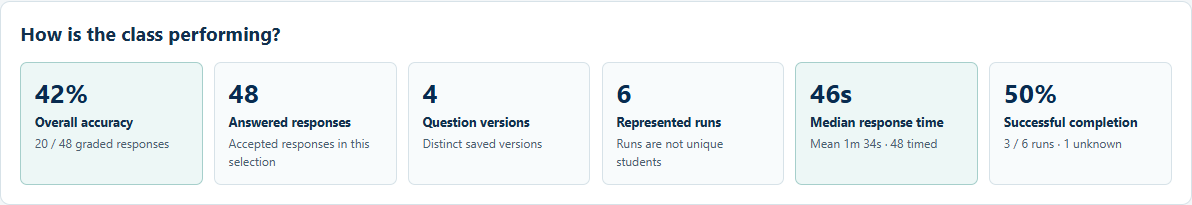
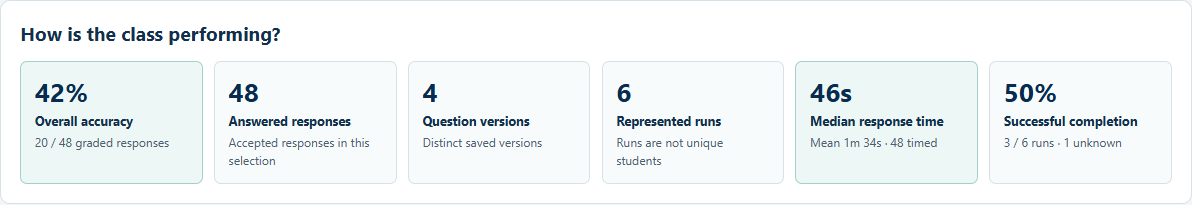
Polish instructor summary and review priorities

diff --git a/tools/answer-analysis/dashboard-view.js b/tools/answer-analysis/dashboard-view.js
@@ -12,6 +12,24 @@ function metric(label,value,detail='',primary=false){const node=el('div','','met
 function panel(id,title){const node=byId(id);node.replaceChildren(el('h2',title));return node;}
 function fold(label,...children){const node=el('details','');node.append(el('summary',label),...children);return node;}
 function smallTable(headers,rows){const node=table(headers,rows);node.classList.add('compact-table');return node;}
+function difficultyLabel(value){
+  if(!/boss$/i.test(value))return value;
+  const spaced=value.replace(/([a-z])([A-Z])/g,'$1 $2').replace(/[_-]+/g,' ').replace(/\s*boss$/i,' boss').toLowerCase();
+  return spaced.charAt(0).toUpperCase()+spaced.slice(1);
+}
+function renderSummaryHighlights(text){
+  const node=byId('summary-highlights'),o=summary.overview,parts=text.split('\n\n');node.replaceChildren();
+  const conflict=Boolean(summary.stats.keyConflicts||summary.stats.objectiveConflicts);
+  const priority=parts.find(p=>p.startsWith('Start the review with '));
+  const next=parts.find(p=>p.startsWith('Suggested next step: '));
+  const allCorrect=o.knownCorrectness>0&&o.correct===o.knownCorrectness;
+  const items=[
+    ['Class performance',o.knownCorrectness?`${percent(o.correct,o.knownCorrectness)} accuracy`:'No graded responses',`${o.correct} / ${o.knownCorrectness} graded responses · ${plural(o.runs,'run')}`],
+    [byId('grouping').value==='objectives'?'Priority objective':'Priority topic',conflict?'Check conflicting records':priority?priority.replace('Start the review with ',''):allCorrect?'No review priority identified':'More evidence needed',conflict?'Answer-key or objective conflicts prevent a comparison.':priority?'Based on the current filters and review minimum.':allCorrect?'All graded responses in this selection were correct.':'No topic or objective with incorrect answers meets the selected review minimum.'],
+    ['Teaching action',conflict?'Resolve the conflicting records before drawing conclusions.':next?next.replace('Suggested next step: ',''):allCorrect?'Check understanding with a fresh question or application.':'Collect more responses before choosing a teaching intervention.','']
+  ];
+  for(const [label,value,detail] of items){const card=el('div','','summary-highlight');card.append(el('h3',label),el('p',value,'highlight-value'));if(detail)card.append(note(detail));node.append(card);}
+}
 function renderDashboard(){
   const o=summary.overview,p=summary.progression,coverage=summary.coverage;
   const node=panel('overview','How is the class performing?'),metrics=el('div','','metrics');
@@ -23,13 +41,13 @@ function renderDashboard(){
   if(!summary.stats.included)node.append(unavailable('No usable responses match this selection. Reset filters or add exports with saved question details.'));
   const difficulty=panel('difficulty','Performance by difficulty');
   const reliable=summary.difficulties.filter(g=>g.label!=='Unknown').reduce((n,g)=>n+g.count,0);
-  difficulty.append(note(`${reliable} of ${summary.stats.included} responses have recorded difficulty. Missing or conflicting question-version labels are Unknown.`),
-    table(['Difficulty','Responses','Unique questions','Runs','Accuracy','Median response time'],summary.difficulties.map(g=>[g.label,g.count||'No observed responses',g.count?g.questionCount:'—',g.count?g.runCount:'—',accuracyCell(g),displayTime(g.medianResponseTimeMs)])));
+  difficulty.append(note(`${reliable} of ${summary.stats.included} responses have recorded difficulty.`),
+    table(['Difficulty','Responses','Unique questions','Runs','Accuracy','Median response time'],summary.difficulties.map(g=>[difficultyLabel(g.label),g.count||'No observed responses',g.count?g.questionCount:'—',g.count?g.runCount:'—',accuracyCell(g),displayTime(g.medianResponseTimeMs)])),
+    fold('How to read difficulty',note('Missing or conflicting question-version labels are Unknown. Boss labels are spaced for readability; their recorded categories and counts are unchanged.')));
   if(summary.quality.difficultyConflicts)difficulty.append(fold('Conflicting difficulty labels',note('Some saved question versions have different difficulty labels across imported responses. Those versions are classified as Unknown above. The exported labels are shown below.'),table(['Recorded label','Responses','Accuracy','Median time'],summary.reportedDifficulties.map(g=>[g.label,g.count,accuracyCell(g),displayTime(g.medianResponseTimeMs)]))));
   const encounter=panel('encounters','First and repeat encounters');
   encounter.append(note('Exact question version within a run. Retained history only; unknown ordering stays unavailable.'),smallTable(['Question encounter','Responses','Accuracy'],summary.encounters.question.map(g=>[g.label,g.count,accuracyCell(g)])),
-    unavailable('Skill first/repeat performance: Not available. These exports do not provide a consistent skill identifier and reliable skill-encounter history.'),
-    fold('Original exposure-counter results',note('Used by the Attempts filter. This question-ID counter also includes earlier rapid guesses and may span revisions.'),smallTable(['Recorded exposure','Responses','Accuracy'],summary.encounters.recorded.map(g=>[g.label,g.count,accuracyCell(g)]))));
+    fold('Encounter definitions and data limits',unavailable('Skill first/repeat performance: Not available. These exports do not provide a consistent skill identifier and reliable skill-encounter history.'),note('The original exposure counter is used by the Attempts filter. This question-ID counter also includes earlier rapid guesses and may span revisions.'),smallTable(['Recorded exposure','Responses','Accuracy'],summary.encounters.recorded.map(g=>[g.label,g.count,accuracyCell(g)]))));
   const remediation=panel('remediation','Instructional support');
   remediation.append(note('Immediate support responses are separate from subsequent retests.'),smallTable(['Recorded role','Responses','Accuracy'],summary.remediation.roles.map(g=>[g.label[0].toUpperCase()+g.label.slice(1),g.count||'Not available',accuracyCell(g)])));
   const linked=summary.remediation.linkedRetests;
@@ -37,7 +55,7 @@ function renderDashboard(){
     fold('Sequence support and limits',note(`${summary.remediation.linkedGroups||'No'} linked remediation groups observed. A group is not proof of a complete sequence.`),unavailable('Sequences initiated, completed, and abandoned: Not available. The current exports do not consistently mark those lifecycle events.'),note('Correct repair answers and retests do not establish mastery or a causal learning gain.')));
   const progression=panel('progression','Game completion and progression'),runMetrics=el('div','','metrics run-metrics');
   runMetrics.append(metric('Successful completions',p.successful,`${p.represented} represented runs`),metric('Ended early',p.early),metric('Unsuccessful endings',p.unsuccessful),metric('Unknown status',p.unknown));
-  progression.append(runMetrics,note('Whole-run context for the runs represented above. Response filters do not shorten these runs. A successful ending means normal mode completion, not mastery.'));
+  progression.append(runMetrics);
   progression.append(table(['Whole-run measure','Value','Coverage / denominator'],[
     ['Successful completion rate',p.successfulRate===null?'Not available':percent(p.successful,p.represented),`${p.successful} successful / ${p.represented} represented; ${p.unknown} unknown included in denominator`],
     ['Median successful completion time',runTime(p.medianSuccessfulTimeMs),`${p.successfulTimedRuns} of ${p.successful} successful runs have end times`],
@@ -45,19 +63,19 @@ function renderDashboard(){
     ['Median overall run duration',runTime(o.medianRunTimeMs),`${o.timedRuns} of ${o.runs} runs; partial clocks may understate duration`],
     ['Mean ended-run duration',runTime(o.averageCompletionTimeMs),`${o.completionRuns} recorded endings, including early / unsuccessful endings`],
     ['Recorded run time',runTime(o.recordedTimeMs),'Total of one maximum clock per represented run'],
-    ['Longest correct-answer streak',o.bestStreak??'Not available',`${o.streakRuns} of ${o.runs} runs have recorded streaks`],
-    ['Checkpoint / boss retry rate','Not available','Explicit, consistently identified retry attempts are not available']
+    ['Longest correct-answer streak',o.bestStreak??'Not available',`${o.streakRuns} of ${o.runs} runs have recorded streaks`]
   ]));
+  progression.append(fold('Completion definitions and data limits',note('Whole-run context for the runs represented above. Response filters do not shorten these runs. A successful ending means normal mode completion, not mastery.'),unavailable('Checkpoint / boss retry rate: Not available. Explicit, consistently identified retry attempts are not available.')));
   progression.append(fold('Review individual runs',table(['Run','Game','Status','Recorded duration','Observed answers','Inspect'],summary.runs.map(r=>{
     const button=el('button','Inspect run');button.type='button';button.addEventListener('click',()=>{byId('run').value=r.key;refresh();byId('overview').scrollIntoView();});
     return [r.runID,r.gameID,outcomeLabel[r.status]+(r.conflict?' (conflicting endings)':''),runTime(r.time),r.answerCount,button];
   }))));
   const timing=panel('timing','Response-time distribution'),bins=el('ul','','distribution');
   for(const bin of summary.distribution){const row=el('li','');row.append(el('span',bin.label),bar(bin.count,o.timedResponses),el('span',`${bin.count} · ${o.timedResponses?percent(bin.count,o.timedResponses):'—'}`,'bin-value'));bins.append(row);}
-  timing.append(note(`Median ${displayTime(o.medianResponseTimeMs)} · Mean ${displayTime(o.averageResponseTimeMs)} · ${o.timedResponses}/${summary.stats.included} timed responses`),bins,note('All positive recorded times are retained. Times can include idle periods, accommodations, and interruptions.'));
+  timing.append(note(`Median ${displayTime(o.medianResponseTimeMs)} · Mean ${displayTime(o.averageResponseTimeMs)} · ${o.timedResponses}/${summary.stats.included} timed responses`),bins,fold('About recorded times',note('All positive recorded times are retained. Times can include idle periods, accommodations, and interruptions.')));
   const cov=panel('coverage','Question-bank coverage'),depth=el('div','','mini-stats');
   for(const [value,label] of [[coverage.encountered,'versions encountered'],[coverage.atLeastFive,'with ≥5 graded responses'],[coverage.atLeastTen,'with ≥10 graded responses']]){const item=el('div','');item.append(el('strong',value),el('span',label));depth.append(item);}
-  cov.append(depth,note('Breadth shows how much content was encountered. Depth shows how many versions have enough responses to review.'),unavailable('Percentage of the bank: Not available. No authoritative complete inventory was supplied.'),el('a','See coverage by topic or learning objective'));
+  cov.append(depth,fold('Coverage definitions and data limits',note('Breadth shows how much content was encountered. Depth shows how many versions have enough responses to review.'),unavailable('Percentage of the bank: Not available. No authoritative complete inventory was supplied.')),el('a','See coverage by topic or learning objective'));
   cov.lastChild.href='#topics';renderTopics();renderReview();
 }
 function topicLabel(g){return byId('grouping').value==='objectives'?MQAnswerAnalysis.objectiveLabel(g):g.topic.replaceAll('_',' ').replaceAll('-',' ');}
@@ -80,13 +98,20 @@ function renderTopics(){
 }
 function renderReview(){
   const groups=MQAnswerAnalysis.reviewQuestions(summary,Number(byId('minimum').value)),node=byId('review-results');node.replaceChildren();
-  byId('review-note').textContent=`Up to five questions with at least ${plural(Number(byId('minimum').value),'graded response')}, lowest accuracy first. Select a question to open its choices. Fewer than five responses or two runs is limited evidence.`;
+  byId('review-note').textContent=`Lowest accuracy first · At least ${plural(Number(byId('minimum').value),'graded response')} per question · Up to five priorities`;
   if(!groups.length){node.append(note('No questions meet the current review threshold. All imported question results remain available below.'));return;}
-  node.append(table(['Question','Responses','Runs','Accuracy','Most common choice marked incorrect'],groups.map((g,i)=>{
+  const list=el('ol','','review-list');
+  for(const [i,g] of groups.entries()){
     const wrong=g.options.filter(o=>o.knownCorrectness>o.correct),max=Math.max(...wrong.map(o=>o.knownCorrectness-o.correct));
-    const cell=el('div','');cell.append(reviewLink(g,i),note(MQAnswerAnalysis.sufficient(g)?'Broader sample':'Limited evidence'));
-    return [cell,g.count,g.runCount,accuracyCell(g),wrong.filter(o=>o.knownCorrectness-o.correct===max).map(o=>`${o.text} (${max})`).join(' / ')];
-  })),note('These are observed answer patterns, not proven misconceptions. Review the wording and reasoning before deciding on a classroom intervention.'));
+    const card=el('li','','review-card'),body=el('div','','review-body'),heading=el('h3',''),stats=el('div','','review-stats');
+    heading.append(reviewLink(g,i));body.append(heading,note(MQAnswerAnalysis.sufficient(g)?'Broader sample':'Limited evidence — fewer than five graded responses or two runs'));
+    const common=wrong.filter(o=>o.knownCorrectness-o.correct===max),choice=el('p','','review-choice');
+    choice.append(el('strong',common.length===1?'Most common incorrect choice: ':'Tied incorrect choices: '),document.createTextNode(common.map(o=>`${o.text} (${max})`).join(' / ')));body.append(choice);
+    stats.append(metric('Accuracy',percent(g.correct,g.knownCorrectness),`${g.correct} / ${g.knownCorrectness} correct`),metric('Responses',g.count,plural(g.runCount,'run')));
+    const link=el('a','View answer choices →','review-action');link.href='#'+questionAnchor(g);link.setAttribute('aria-label',`View answer choices for Review ${i+1}`);link.addEventListener('click',event=>{event.preventDefault();openQuestion(g);});
+    body.append(link);card.append(body,stats);list.append(card);
+  }
+  node.append(list,fold('How review priorities are selected',note('Questions must meet the selected review minimum and have an incorrect response. Fewer than five graded responses or two runs is limited evidence. These are observed answer patterns, not proven misconceptions. Review the wording and reasoning before deciding on a classroom intervention.')));
 }
 function openQuestion(g){
   questionScope=null;byId('question-search').value='';questionPage=Math.floor(orderedQuestions().indexOf(g)/questionPageSize);renderQuestions();
@@ -112,7 +137,7 @@ function renderQuestions(){
     heading.append(el('h3',g.prompt),note(`${plural(g.count,'answer')} · ${percent(g.correct,g.knownCorrectness)} correct (${g.correct}/${g.knownCorrectness}) · ${plural(g.runCount,'run')} · Median ${displayTime(g.medianResponseTimeMs)}`));card.append(heading);
     const legacy=el('span','');legacy.id='question-'+summary.groups.indexOf(g);card.append(legacy);
     const metadata=el('dl','','question-meta');
-    for(const [label,value] of [['Question ID',g.questionID],['Game',g.games.join(', ')],['Topic',g.topics.join(' / ')||'Not supplied'],['Learning objective',g.objectives.join(' / ')||'Not supplied'],['Difficulty',g.difficulty],['Question type',g.types.join(' / ')||'Not supplied'],['Gameplay role',[...g.roles,...g.bossStages].join(' / ')||'Not supplied'],['Saved version',g.revision]]){const pair=el('div','');pair.append(el('dt',label),el('dd',String(value)));metadata.append(pair);}card.append(metadata);
+    for(const [label,value] of [['Question ID',g.questionID],['Game',g.games.join(', ')],['Topic',g.topics.join(' / ')||'Not supplied'],['Learning objective',g.objectives.join(' / ')||'Not supplied'],['Difficulty',difficultyLabel(g.difficulty)],['Question type',g.types.join(' / ')||'Not supplied'],['Gameplay role',[...g.roles,...g.bossStages].join(' / ')||'Not supplied'],['Saved version',g.revision]]){const pair=el('div','');pair.append(el('dt',label),el('dd',String(value)));metadata.append(pair);}card.append(metadata);
     card.append(note(`Exact-version encounters: ${g.encounters.map(e=>`${e.count} ${e.label.toLowerCase()}`).join(' · ')}. ${g.assisted} responses with choices removed.`),note(`Time per answer: median ${displayTime(g.medianResponseTimeMs)} · mean ${displayTime(g.averageResponseTimeMs)} · ${g.timedResponses}/${g.count} timed.`));
     if(g.reportedDifficulties.length&&g.difficulty==='Unknown')card.append(note('Conflicting recorded difficulty labels: '+g.reportedDifficulties.join(' / ')));
     if(g.optionOrder==='displayed')card.append(note('Original answer order was unavailable. Choices are grouped by the order shown.'));

diff --git a/tools/answer-analysis/report.css b/tools/answer-analysis/report.css
@@ -14,3 +14,8 @@ label{display:flex;flex-direction:column;font-size:.85rem;font-weight:650;gap:.3
 .question{border:1px solid var(--line);border-radius:7px;padding:.85rem 1rem;margin:.7rem 0;background:white}.question.review-question{border-left:3px solid var(--teal)}.question summary h3{display:inline;font-size:.95rem;font-weight:650;white-space:pre-wrap;overflow-wrap:anywhere;margin:0}.question summary p{margin:.3rem 0 0}.question summary .meta{font-weight:400}.review-badge{display:inline-block;margin:0 .5rem .3rem 0;padding:.1rem .45rem;border-radius:4px;background:#dff2ef;color:#075951;font-size:.75rem;font-weight:750}.question-meta{display:grid;grid-template-columns:repeat(3,minmax(0,1fr));gap:.6rem;margin:.8rem 0;font-size:.85rem}.question-meta dt{font-weight:650;color:var(--muted);font-size:.75rem}.question-meta dd{margin:0;overflow-wrap:anywhere}.question table td:first-child{min-width:260px;white-space:pre-wrap}.question table{min-width:650px}.question .actions{margin-bottom:0}#summary-text{width:100%;padding:.8rem;font:inherit;line-height:1.5;resize:vertical}#feedback-preview{white-space:pre-wrap;font-size:.9rem;line-height:1.65}.question-id{font-family:ui-monospace,monospace;font-size:.8rem}
 @media(max-width:1050px){.metrics{grid-template-columns:repeat(3,minmax(0,1fr))}.run-metrics{grid-template-columns:repeat(2,minmax(0,1fr))}.learning-grid{grid-template-columns:1fr}.filters{grid-template-columns:repeat(3,minmax(0,1fr))}}
 @media(max-width:650px){main{padding:1rem .75rem 2rem}h1{font-size:1.9rem}.panel{padding:.9rem}.metrics,.filters{grid-template-columns:repeat(2,minmax(0,1fr))}.metric{padding:.65rem}.metric strong{font-size:1.4rem}#drop-zone{display:block}#drop-zone input{padding-left:0;margin-top:.5rem}.section-heading{align-items:start;flex-direction:column}.section-heading label{max-width:100%;width:100%}.question-meta{grid-template-columns:1fr 1fr}.distribution li{grid-template-columns:125px 1fr 70px;gap:.4rem;font-size:.8rem}.question{padding:.7rem}.actions{gap:.5rem}.actions button{font-size:.85rem}#dashboard-nav{gap:.5rem .9rem}}
+
+.summary-highlights{display:grid;grid-template-columns:1fr 1.35fr 1.35fr;gap:1rem;margin:1rem 0}.summary-highlight{min-width:0;border-left:3px solid #a6cfcb;padding:.15rem 1rem;background:#f8fbfc;border-radius:0 6px 6px 0}.summary-highlight h3{margin:.5rem 0;font-size:.8rem;color:var(--muted)}.highlight-value{font-size:1rem;font-weight:600;line-height:1.5;overflow-wrap:anywhere}.summary-highlight:first-child .highlight-value{font-size:1.55rem;color:var(--navy)}.summary-highlight .meta{font-size:.8rem}#summary-preview{border-top:1px solid var(--line);padding-top:.85rem;margin-top:1rem}
+.review-list{list-style:none;padding:0;margin:1rem 0;display:grid;gap:.8rem}.review-card{display:grid;grid-template-columns:minmax(0,1fr) 220px;gap:1.5rem;padding:1.1rem;border:1px solid var(--line);border-left:3px solid var(--teal);border-radius:7px;background:#fff}.review-body{min-width:0;overflow-wrap:anywhere}.review-body h3{margin:0;font-size:1rem;line-height:1.5}.review-link{text-decoration:none}.review-link:hover{text-decoration:underline}.review-choice{font-size:.85rem;line-height:1.6;background:#f5f8fa;padding:.65rem .8rem;border-radius:5px;white-space:pre-wrap}.review-choice strong{font-weight:600}.review-action{display:inline-block;font-size:.85rem;font-weight:650;padding:.4rem 0}.review-stats{display:grid;grid-template-columns:1fr 1fr;gap:.6rem;align-content:start}.review-stats .metric{padding:.7rem}.review-stats .metric strong{font-size:1.55rem}#difficulty .rate{min-width:145px;max-width:210px;font-variant-numeric:tabular-nums}#difficulty .bar-track{height:7px;margin-top:.5rem}.panel>details:not(.question){margin-top:.85rem}.panel>details:not(.question)>summary{color:var(--muted)}
+@media(max-width:850px){.summary-highlights{grid-template-columns:1fr}.summary-highlight{padding:.25rem .85rem}.summary-highlight h3{margin:.35rem 0}.highlight-value{margin:.4rem 0}.review-card{grid-template-columns:minmax(0,1fr) 185px;gap:1rem}}
+@media(max-width:650px){.review-card{display:flex;flex-direction:column;gap:.7rem;padding:.85rem}.review-stats{order:-1;grid-template-columns:1fr 1fr}.review-stats .metric{padding:.5rem .65rem}.review-stats .metric strong{font-size:1.3rem}.review-stats .metric small{font-size:.75rem}.review-body h3{font-size:.95rem}}

diff --git a/tools/answer-analysis/index.html b/tools/answer-analysis/index.html
@@ -24,8 +24,8 @@
 <div id="empty-state" class="panel"><h2>A clearer view of your class</h2><p>Import game data as CSV, Excel, or Apple Numbers from Managerial Intelligence Directorate, Macro Command System, Micro Domains, Economic Realm, or Composer games.</p><p class="meta">Simulation trial tables and journey JSON files are not supported. Older exports may lack saved question details.</p></div>
 <div id="dashboard" hidden>
 <section id="overview" class="panel" aria-label="Class overview"></section>
-<section id="instructor-summary" class="panel" aria-labelledby="summary-heading"><h2 id="summary-heading">Instructor summary</h2><p class="meta">A starting point for course planning. Review the observations and edit before sharing.</p><div class="actions"><button id="copy-summary" disabled>Copy Class Summary</button><button id="download-feedback" disabled>Download teaching summary</button><button id="download-summary" disabled>Download class summary</button><button id="download" disabled>Download choice counts</button></div>
-<p id="copy-status" role="status" aria-live="polite"></p><details id="summary-preview" open><summary>Read the Class Practice Summary</summary><p id="feedback-preview"></p></details><div id="summary-editor" hidden><label for="summary-text">Class feedback summary — review and edit before sharing</label><textarea id="summary-text" rows="12"></textarea></div></section>
+<section id="instructor-summary" class="panel" aria-labelledby="summary-heading"><h2 id="summary-heading">Instructor summary</h2><p class="meta">Three highlights for planning your next class.</p><div id="summary-highlights" class="summary-highlights"></div><div class="actions"><button id="copy-summary" disabled>Copy Class Summary</button><button id="download-feedback" disabled>Download teaching summary</button><button id="download-summary" disabled>Download class summary</button><button id="download" disabled>Download choice counts</button></div>
+<p id="copy-status" role="status" aria-live="polite"></p><details id="summary-preview"><summary>Read full summary</summary><p id="feedback-preview"></p></details><div id="summary-editor" hidden><label for="summary-text">Class feedback summary — review and edit before sharing</label><textarea id="summary-text" rows="12"></textarea></div></section>
 <section id="review" class="panel" aria-label="Questions to review"><h2 id="questions-to-review">Questions to review</h2><p id="review-note" class="meta"></p><div id="review-results"></div></section>
 <section id="difficulty" class="panel" aria-label="Performance by difficulty"></section>
 <div id="learning" class="learning-grid"><section id="encounters" class="panel" aria-label="First and repeat encounters"></section><section id="remediation" class="panel" aria-label="Instructional support"></section></div>

diff --git a/tools/answer-analysis/report.js b/tools/answer-analysis/report.js
@@ -47,6 +47,7 @@ function refresh(){
   byId('copy-summary').disabled=!s.accepted;byId('download-feedback').disabled=!s.accepted;
   byId('download-summary').disabled=!summary.groups.length;byId('download').disabled=!summary.groups.length;
   byId('feedback-preview').textContent=summaryText();
+  renderSummaryHighlights(byId('feedback-preview').textContent);
   if(!byId('summary-editor').hidden){byId('summary-text').value=summaryText();byId('copy-status').textContent='Summary updated for the current selection. Copy it again to use these results.';}
 }
 function renderFiles(){

diff --git a/ANSWER_ANALYSIS_DASHBOARD_ENHANCEMENT_REPORT.md b/ANSWER_ANALYSIS_DASHBOARD_ENHANCEMENT_REPORT.md
@@ -75,7 +75,7 @@ After:
 
 - Compact import area, collapsible file list, explicit imported-file versus represented-run counts, game/run filters, active-selection description, and reset controls.
 - Six compact headline cards, with median response time and accuracy numerator/denominator emphasized.
-- Instructor summary immediately after performance, with its preview open by default; Questions to review comes next, before topic results. Difficulty follows the review section; practice and instructional support are paired; outcomes are separated from response timing.
+- Instructor summary immediately after performance, with three visible highlights and a collapsible full summary; Questions to review comes next, before topic results. Difficulty follows the review section; practice and instructional support are paired; outcomes are separated from response timing.
 - Coverage depth, timing distribution, sortable topics/objectives, and direct topic-to-question browsing.
 - Numbered review links, stable game/question/revision anchors, compatibility with the old `question-N` anchors, and keyboard-operable “Review next.”
 - Question IDs, full stems, topic/objective, recorded difficulty, type/role, runs, timing, saved version, and choice-count bars. Cards remain collapsible.
@@ -176,6 +176,12 @@ This regenerates the repository's `dist/` output; it does not deploy. Keep fixtu
 
 Local CSV difficulty is now included in the main breakdown, question cards, teaching summary, and CSV download. The previous blanket private-contract requirement incorrectly hid populated local difficulty fields. Empty labels and contradictory labels for one saved question version remain Unknown. CSV output uses `difficulty` / `recorded_difficulty` sections and a `difficulty` column in place of the misleading authored/unverified names. No gameplay or telemetry changes were needed.
 
-The instructor summary now follows the overview with its preview expanded. Questions to review follows the summary, ahead of Results by topic. Navigation follows the same reading order. The live Cost Directive screenshot documents the reported issue; exact live totals still require the source CSVs, which are not attached.
+The instructor summary now follows the overview with three visible highlights and a collapsible full summary. Questions to review follows the summary, ahead of Results by topic. Navigation follows the same reading order. The live Cost Directive screenshot documents the reported issue; exact live totals still require the source CSVs, which are not attached.
 
 Correction validation passed: the existing answer-analysis validation suite, dashboard calculation checks across all 11 registered CSV schemas, browser checks for difficulty totals/cards/feedback/CSV exports and the new section order, desktop/tablet/mobile accessibility scans, and the local publication build (2,411 files; no forbidden files). Refreshed dashboard screenshots and browser evidence are saved alongside the existing evidence.
+
+## Visual polish
+
+The instructor summary now shows class performance, the priority topic/objective, and a teaching action above a collapsed full narrative. Copy and download still use the complete summary. Review priorities use responsive cards with full question wording, visible accuracy/response counts, the observed incorrect choice, and direct answer-choice links. Boss difficulty names are spaced for display without merging categories or changing exports, and accuracy bars are more prominent. Secondary definitions and unavailable-metric notes are in expandable sections. Review rankings, filters, counts, and measurement rules are unchanged.
+
+Validation: dashboard calculation and existing analysis suites, desktop/mobile browser checks, keyboard review navigation, WCAG A/AA scans, and contrast checks passed. The compact highlights were checked for filtered/empty selections, review thresholds, objective grouping, and all-correct results.
